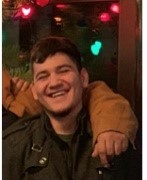
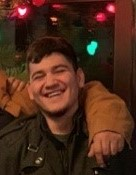
minor readme edits

diff --git a/README.md b/README.md
@@ -48,7 +48,7 @@ _GitHub_ used to leverage project management, workflow, and application/file sto
 
 **Team Management**
 
-|![Adrian Palacios](./assets/images/Adrian.jpg)  **Adrian Palacios**  _Full-Stack Engineer_
+|![Adrian Palacios](./assets/images/AdrianSmall.jpg)  **Adrian Palacios**  _Full-Stack Engineer_
 
 ![](RackMultipart20200613-4-1by8p4k_html_1bd476007cfd8b79.gif)linkedin.com/in/adrian-palacios-centraltexas/
 [![](RackMultipart20200613-4-1by8p4k_html_fa5cf0c4a598c685.jpg)](mailto:adrianpalacios33@yahoo.com)adrianpalacios33@yahoo.com [![](RackMultipart20200613-4-1by8p4k_html_1c5d5f1fcf0821b2.jpg)](/C:%5CUsers%5Cdiane%5COneDrive%5CDocuments%5CUT%5CProject-1%5C(956)%20252-7270)(956) 252-7270
